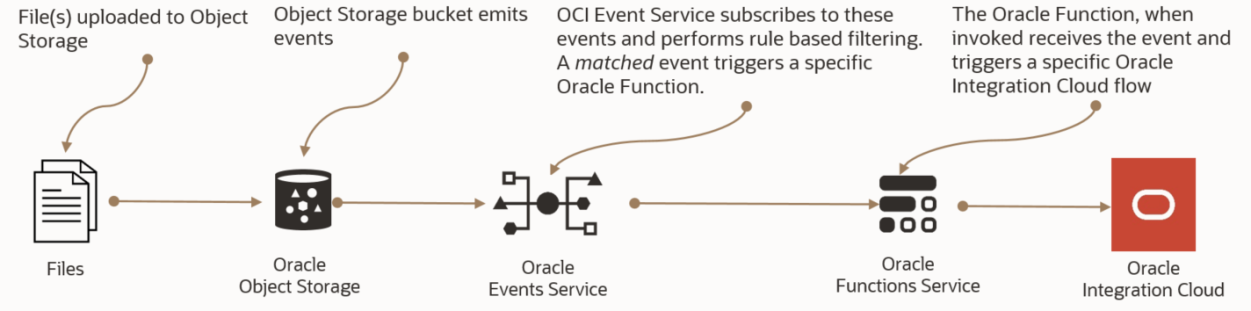
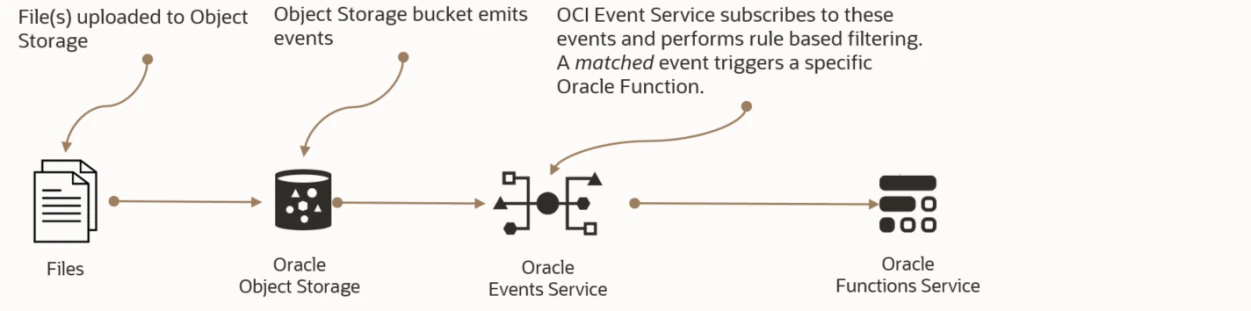
new relese

diff --git a/content/posts/0004/index.it.md b/content/posts/0004/index.it.md
@@ -1,7 +1,7 @@
 ---
 title: Invocare una funzione con Object Storage service
 date: 2023-04-20T19:00:00+01:00
-draft: true
+draft: false
 tags:
   - functions
 categories:
@@ -13,9 +13,25 @@ cover:
   relative: true
 ---
 
-Il servizio OCI Function permette di eseguire del codice su una infrastruttura che non devi gestire, in modo scalabile e automatizzato. In questo [link]() ho presentato un esempio di una OCI function sviluppata in Python.
+Il servizio OCI Function permette di eseguire del codice su una infrastruttura che non devi gestire. In questo [link]({{< relref path="0003/index.md" lang="it" >}}) ho presentato un esempio base di una OCI function sviluppata in Python.
 
 Le funzioni possono essere invocate manualmente o anche automaticamente da altri servizi attraverso un trigger, quindi possiamo eseguire del codice anche in risposta ad una azione nel cloud di OCI.
 
-In questo caso andremo a vedere come invocare una funzione quando copiamo un file all'interno di un Object Storage e ad esempio leggere tale file attraverso la funzione stessa appena invocata.
+In questo caso andremo a vedere come invocare una funzione tramite un evento scatenato da un altro servizio di OCI, nello specifico quando copiamo un file all'interno di un Object Storage.
 
+Per permettere una facile comprensione e riproducibilita' ho creato un [template Terraform](https://github.com/enricopesce/fn-examples/tree/main/bucket-event) che permettera' di creare tutte le risorse necessarie.
+
+Una volta creata l'infrastruttura possiamo testare l'esecuzione della funzione func.py inserendo un file all'interno di un bucket.
+
+```console
+echo "Hello world!" > hello.txt
+oci os object put --bucket-name test --file hello.txt
+```
+
+Una volta copiato il file verra' quindi azionata la funzione e attraverso i log potremmo verificare l'esecuzione e l'output
+
+![Log della funzione](static/functionlog.jpg "Log della funzione")
+
+Questo esempio abbastanza banale puo' far comprendere come attraverso gli eventi si possa creare automatismi ed accedere a file in modo dinamico e scalabile.
+
+In scenari piu complessi sara' possibile integrare altri servizi di OCI per elaborare o estrarre dati dai documenti salvati in un Bucket e salvarli ad esempio in altri servizi come Autonomous DB.

diff --git a/content/posts/0005/index.it.md b/content/posts/0005/index.it.md
@@ -1,0 +1,14 @@
+---
+title: Scrivere in un database oracle da una OCI Function
+date: 2023-05-20T19:00:00+01:00
+draft: true
+tags:
+  - functions
+categories:
+  - serverless
+cover:
+  alt: Scrivere in un database oracle da una OCI Function
+  caption: Scrivere in un database oracle da una OCI Function
+  image: static/objectstoragefunction.webp
+  relative: true
+---